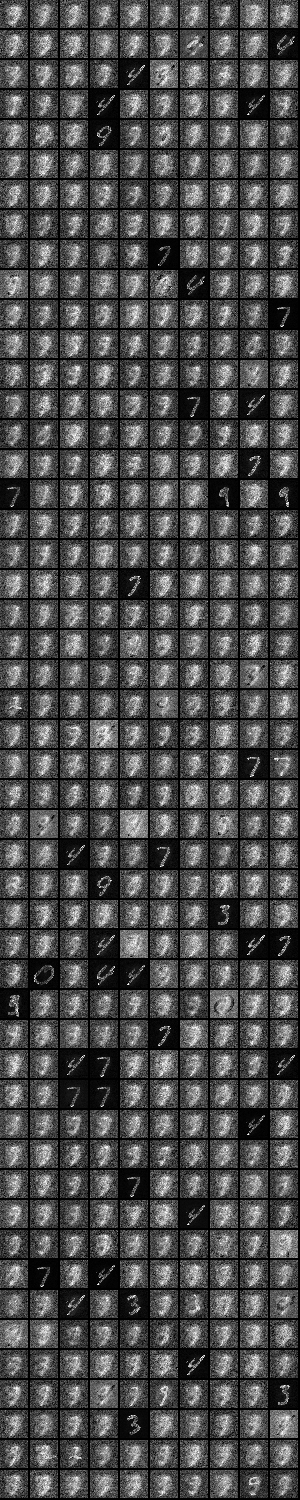
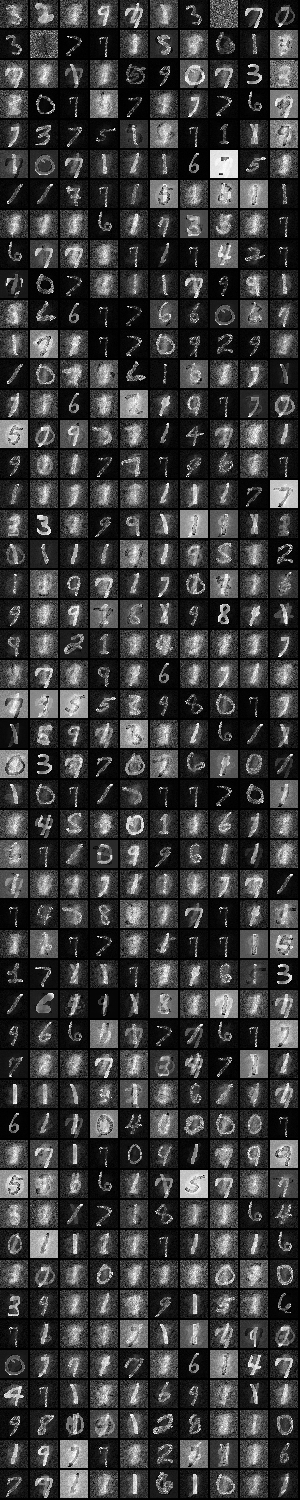
updated adagrad

diff --git a/deeplearning4j-examples/src/main/java/org/deeplearning4j/example/mnist/GradientChangerExample.java b/deeplearning4j-examples/src/main/java/org/deeplearning4j/example/mnist/GradientChangerExample.java
@@ -54,7 +54,7 @@ public class GradientChangerExample {
 
 		
 		Conf c = new Conf();
-		c.setFinetuneEpochs(10000);
+		c.setFinetuneEpochs(1000);
 		c.setFinetuneLearningRate(0.000001);
 		c.setLayerSizes(new int[]{500,400,250});
 		c.setnIn(784);
@@ -65,7 +65,7 @@ public class GradientChangerExample {
 		
 		c.setMultiLayerClazz(DBN.class);
 		c.setUseRegularization(false);
-		c.setDeepLearningParams(new Object[]{1,0.000001,10000});
+		c.setDeepLearningParams(new Object[]{1,0.000001,1000});
 		//c.setRenderWeightEpochs(1000);
 		c.setMultiLayerGradientListeners(listeners);
 		

diff --git a/deeplearning4j-core/src/main/java/org/deeplearning4j/nn/learning/AdaGrad.java b/deeplearning4j-core/src/main/java/org/deeplearning4j/nn/learning/AdaGrad.java
@@ -21,7 +21,7 @@ public class AdaGrad implements Serializable {
 	 * 
 	 */
 	private static final long serialVersionUID = -4754127927704099888L;
-	private double masterStepSize = 1e-6; // default for masterStepSize (this is the numerator)
+	private double masterStepSize = 1e-3; // default for masterStepSize (this is the numerator)
 	//private double squaredGradientSum = 0;
 	public DoubleMatrix historicalGradient;
 	public DoubleMatrix adjustedGradient;
